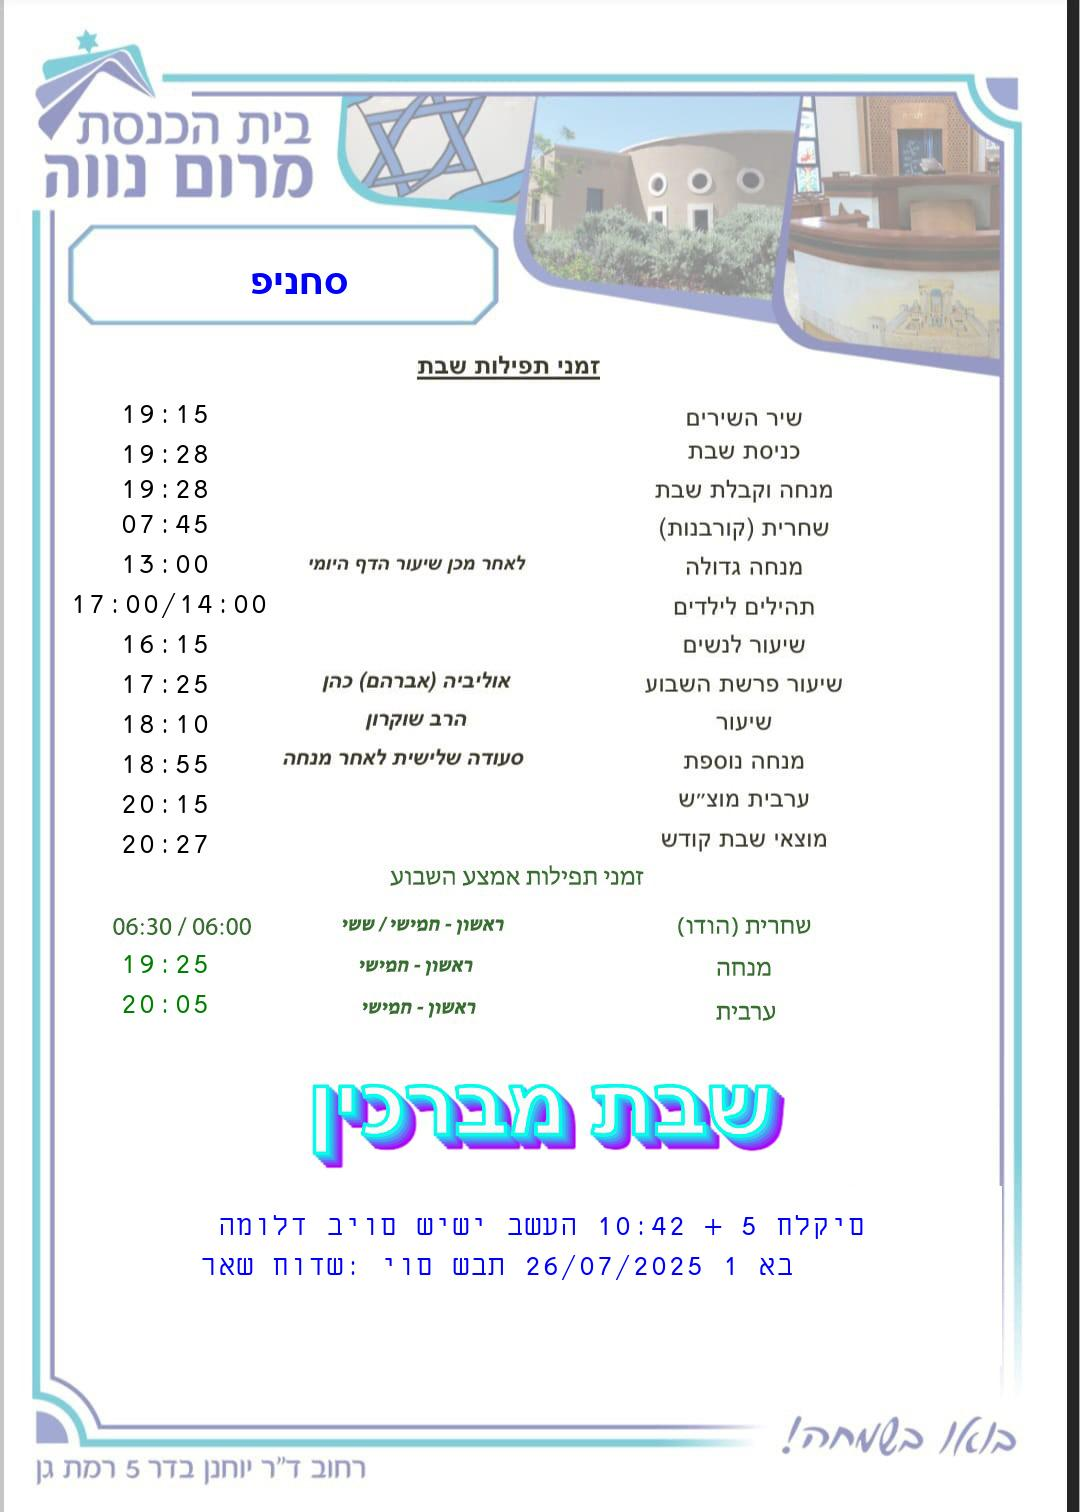
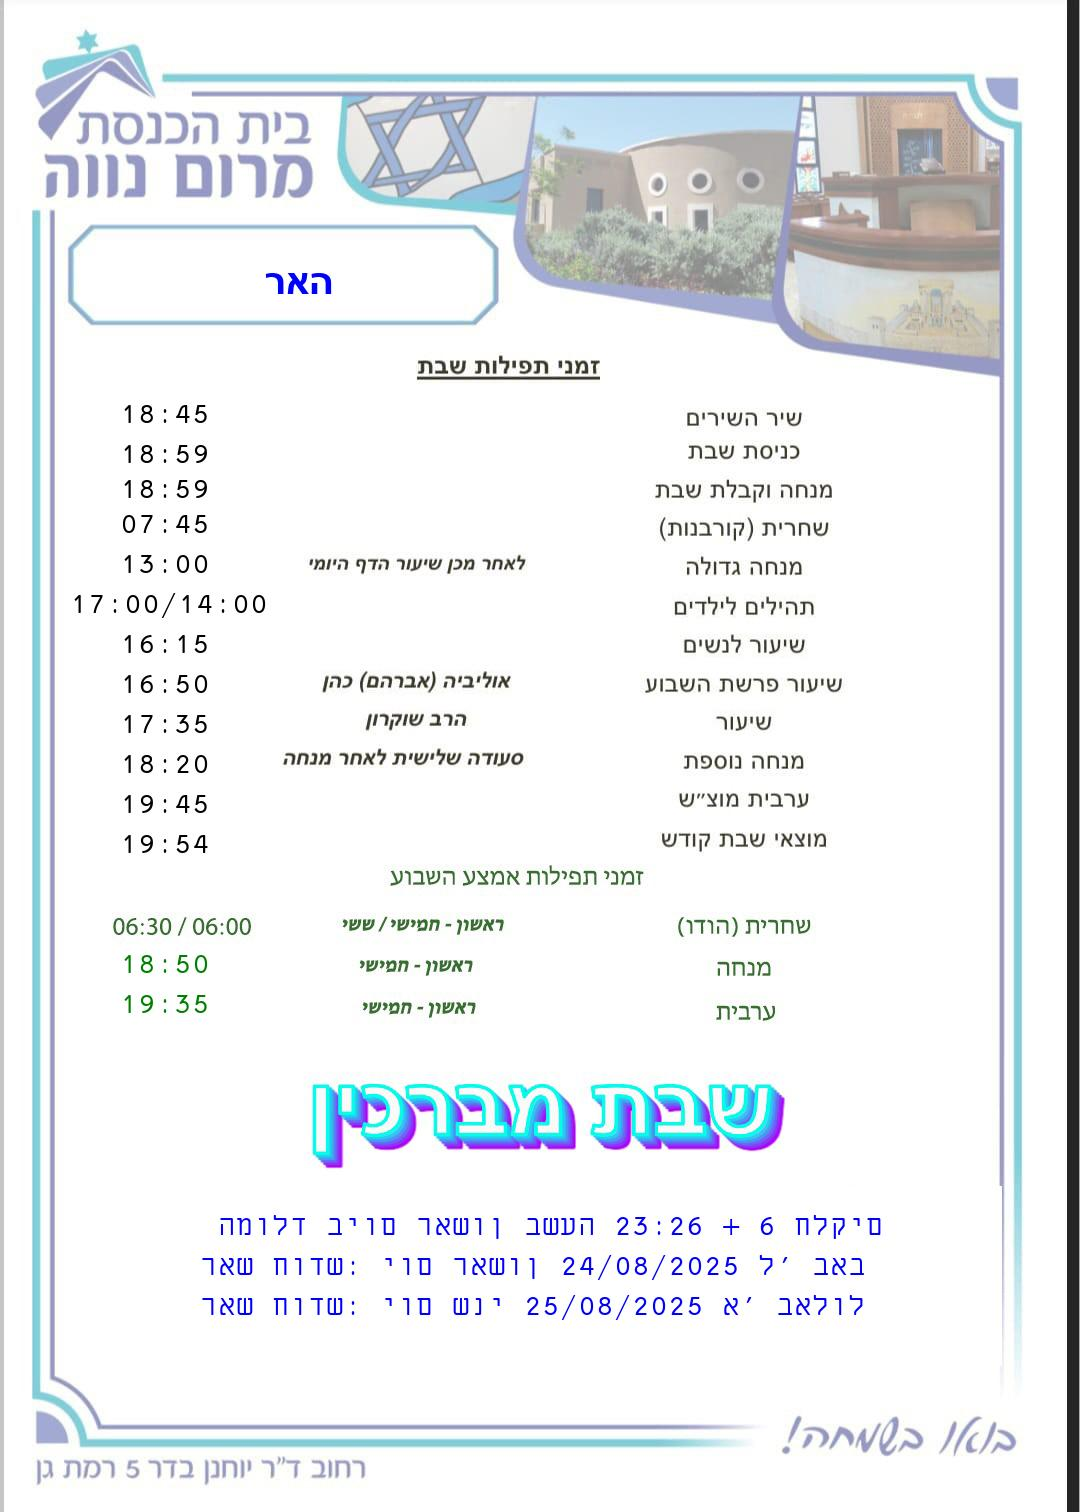
א+ל

diff --git a/horaires_shabbat.py b/horaires_shabbat.py
@@ -887,8 +887,10 @@ class ShabbatScheduleGenerator:
                         for gdate, m, y, d in rc_days:
                             day_name_he = get_weekday_name_hebrew(gdate)
                             month_name = get_jewish_month_name_hebrew(m, y)
+                            # Conversion du jour en hébreu (א pour 1, ל pour 30)
+                            hebrew_day_num = "א' ב" if d == 1 else ("ל' ב" if d == 30 else str(d))
                             rosh_lines.append(
-                                f"ראש חודש: יום {day_name_he} {gdate.strftime('%d/%m/%Y')} {d} {month_name}"
+                                f"ראש חודש: יום {day_name_he} {gdate.strftime('%d/%m/%Y')} {hebrew_day_num}{month_name}"
                             )
                         for i, rc_line in enumerate(rosh_lines):
                             draw.text(
